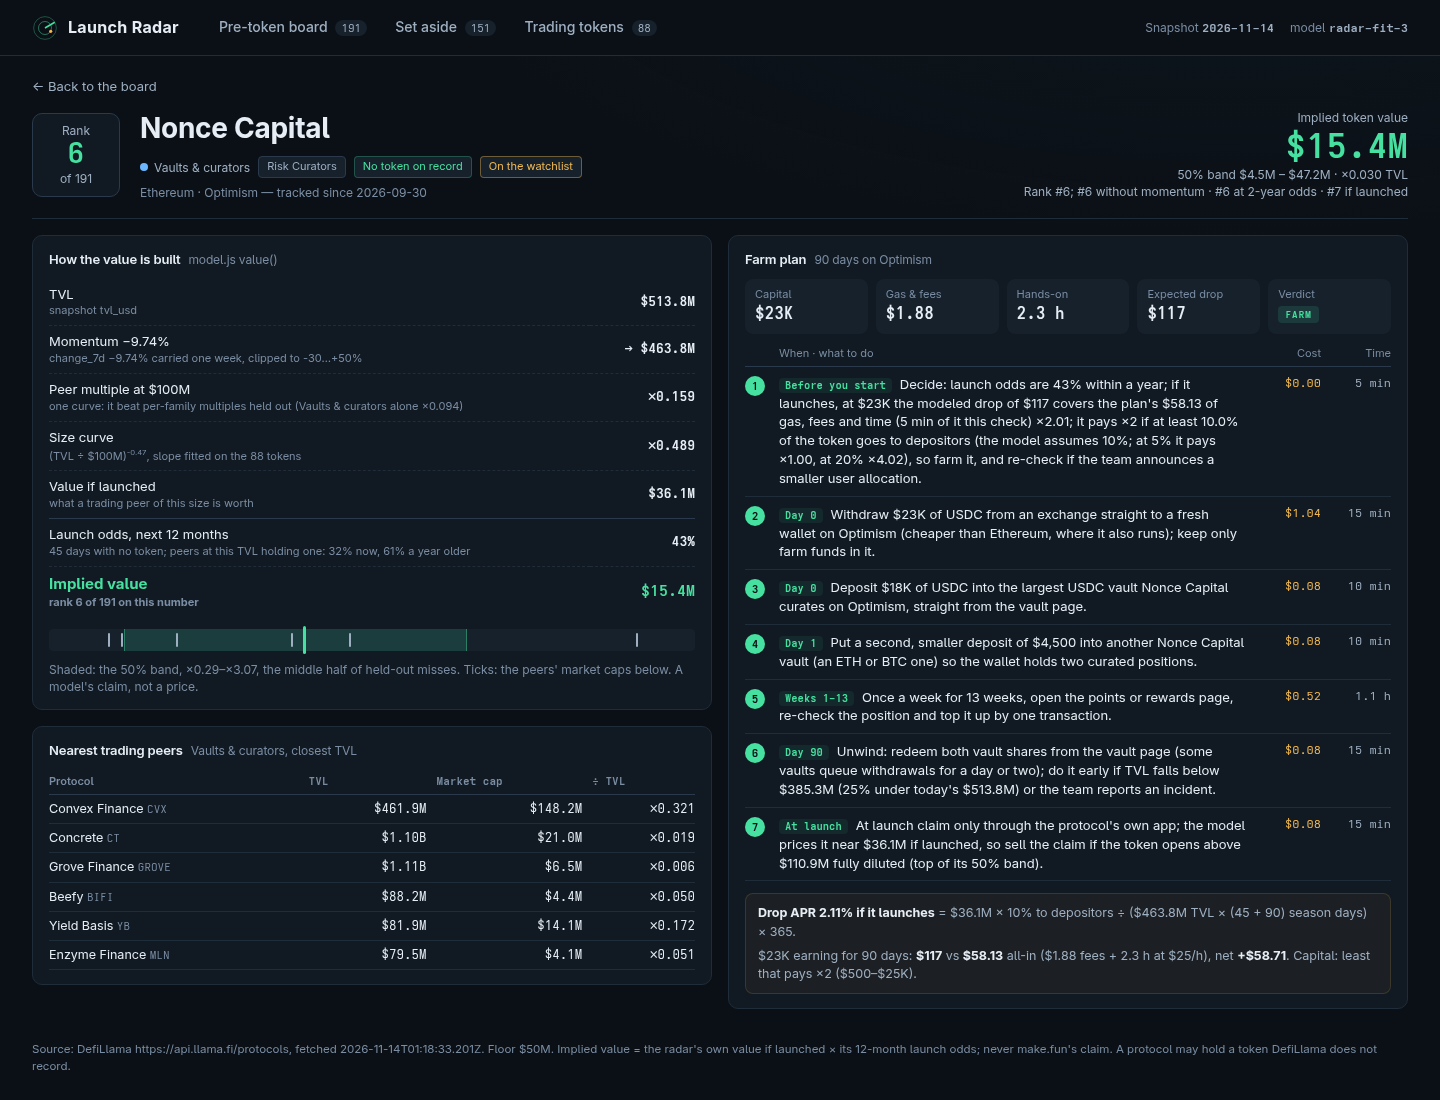
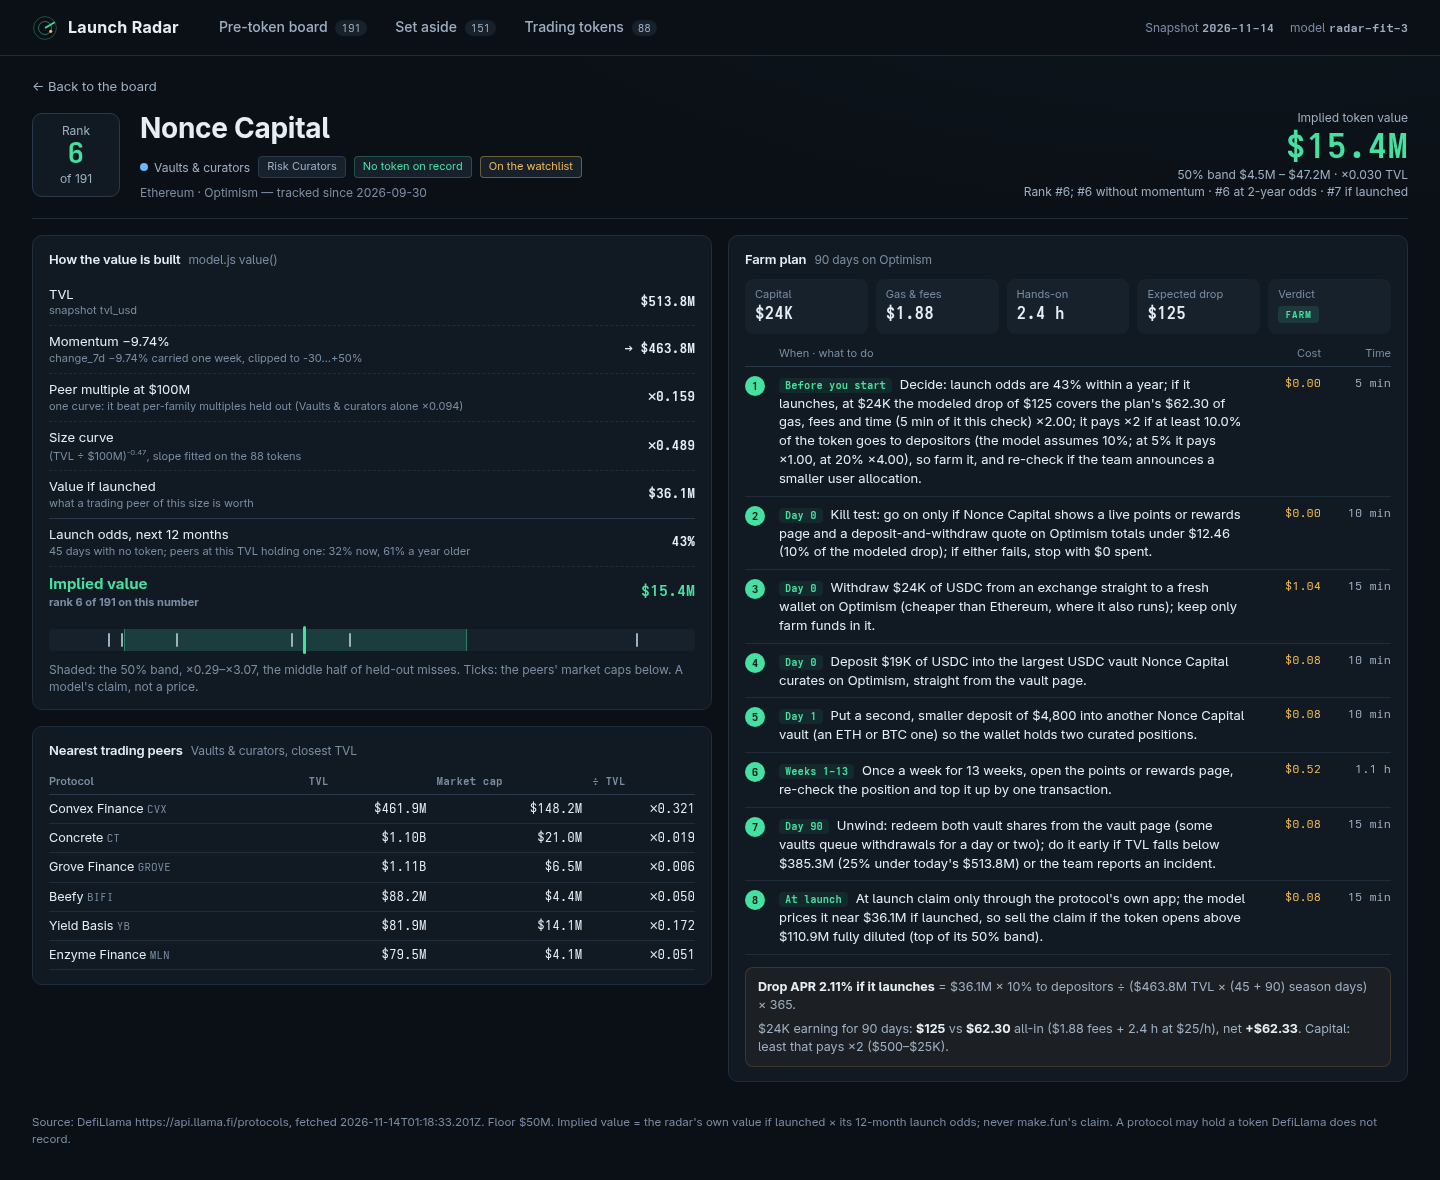
Kill test before any spend in every farm plan (live points page, round-trip quote under 10% of the modeled drop); detail capture on Nonce Capital

diff --git a/dashboard/model.js b/dashboard/model.js
@@ -266,6 +266,7 @@
       var side = Math.round(stake / 4), act = ACT[kind];
       var fill = function (t) { return t.replace(/USDC/g, asset).replace(/\{S\}/g, usd(stake)).replace(/\{s\}/g, usd(side)).replace(/\{N\}/g, p.name).replace(/\{C\}/g, chain); };
       return [
+        { act: 'Kill test: go on only if ' + p.name + ' shows a live points or rewards page and a deposit-and-withdraw quote on ' + chain + ' totals under ' + usd(0.1 * eligible(stake) * perDollar) + ' (10% of the modeled drop); if either fails, stop with $0 spent', usd: 0, min: 10, when: 'Day 0' },
         { act: 'Withdraw ' + usd(stake + side) + ' of ' + asset + ' from an exchange straight to a fresh wallet on ' + chain + (chain !== main[0] ? ' (cheaper than ' + main[0] + ', where it also runs)' : '') + '; keep only farm funds in it',
           usd: 1 + tx, min: 15, when: 'Day 0' },
         { act: fill(act[0]), usd: 2 * tx, min: v.family === 'rwa' ? 30 : 10, when: v.family === 'rwa' ? 'Days 0-2' : 'Day 0' },
